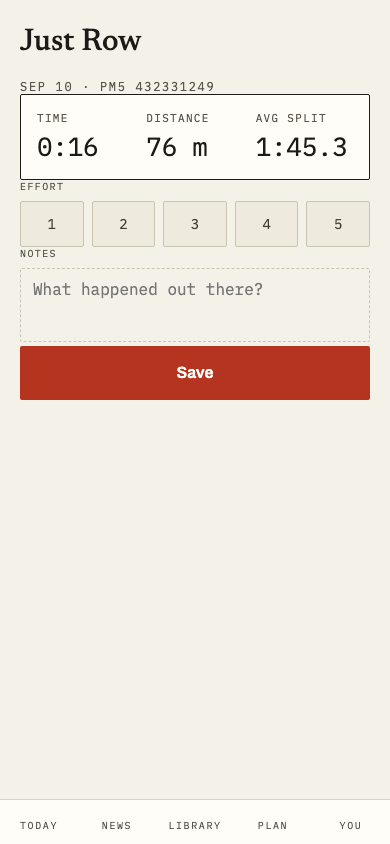
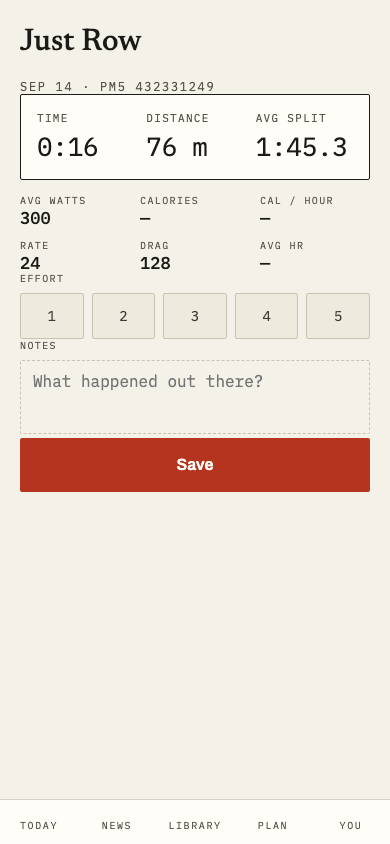
Show the free row's machine tiles in its committed capture (TD-5) (#442)
* Show the free row's machine tiles in its committed capture (TD-5)

`justrow-log` now delivers the fake's end-of-workout 0x0039 inside the
window the driver and the ended hand-off leave open, so
`docs/screenshots/justrow-log.png` renders the six machine tiles for the
first time. Two files change: the capture step and the PNG.

The window was measured in a real browser rather than guessed at again
(branch `td5-spike`, commit `6ea6fdb9`): it opens when the driver sees the
`terminated` frame, 15-86 ms after `terminate-sent`, and closes ~1800 ms
after the hand-off opens. Every earlier attempt delivered on the second End
tap, which is 9 ms EARLY — refused `out-of-window`, nothing filed.

The gate is the locators, not the picture: the tier block, three tiles
carrying figures (AVG WATTS 300, RATE 24, DRAG 128) and three reading a
dash, plus the pre-navigation URL check proving the hold was still open at
delivery. Run RED first with the assertion and no delivery ("element(s) not
found"); the biting mutation is delivering at +0 ms instead of +400.

Claude-Session: https://claude.ai/code/session_01PgSZi4b2yPJmguvrg9EyzP

* Close TD-5 in the ROADMAP, with the number that closed it

Marks the free-row capture row done against `2c9d7e09` and records the
measured window in the row itself: the delivery must land after the
`terminated` frame (15-86 ms past `terminate-sent`) and before the hand-off
linger's effective ~1800 ms, and every earlier attempt was 9 ms early.
[…]

diff --git a/app/e2e/screenshots.spec.ts b/app/e2e/screenshots.spec.ts
@@ -6539,6 +6539,12 @@ test("countdown-blocked-start-landscape", async ({ page }) => {
 // every number on screen is one the pipeline computed, not one the capture
 // seeded.
 //
+// ONE EXCEPTION, STATED RATHER THAN IMPLIED (Phase TD, TD-5): `justrow-log`
+// delivers a bare 0x0039, so three of its six machine tiles read a dash —
+// hardware sends 0x003A too and renders five of six. See that test's own
+// comment for the measured delivery window and why the frame is not a
+// picture of what the erg produces.
+//
 // THE FIXTURE'S RATE VARIES ON PURPOSE (PM final gate, B4): the first cut
 // held 4 m/s at every frame, which made the reviewer instruction
 // "recompute AVG = 500 × t ÷ d by eye" unfalsifiable — the arithmetic
@@ -6750,8 +6756,87 @@ test("justrow-log", async ({ page }) => {
   await openJustRowLive(page, "screenshots-justrow-log@e2e.test");
   await page.getByRole("button", { name: "End session" }).click();
   await page.getByRole("button", { name: "Tap again to end" }).click();
+
+  // THE END-OF-WORKOUT SUMMARY, offered for as long as the surface is still
+  // here to take it. Three previous attempts delivered it once, on the
+  // second End tap, and missed a window whose bounds were MEASURED in a
+  // real browser (branch `td5-spike`, commit `6ea6fdb9`, four orderings)
+  // by dumping the ring the app itself stashes at
+  // `ergomatic:last-session-log` — the browser-side observable Phase TD's
+  // spec §1.3 said was missing:
+  //
+  //   - it OPENS once the driver has SEEN the `terminated` status frame,
+  //     15/24/52/86 ms after `terminate-sent` across those four runs. The
+  //     fake acks the terminate and delivers the synthesized `terminated`
+  //     status SYNCHRONOUSLY (`onArmedFrameComplete`, `fake.ts`) — a free
+  //     row never programs, so `queueTerminateAutoCycle`'s tick drain is
+  //     not on this path at all — which makes that spread APP-SIDE latency,
+  //     and app-side latency is exactly what a loaded runner stretches;
+  //   - it CLOSES ~1800 ms after the ended hand-off opens — the hold is
+  //     `BURST_LINGER_MS` (2000 ms) and `summary-recorded` lands 200 ms
+  //     after the 0x0039, on the hash sub-window;
+  //   - delivering on the second End tap put the frame **9 ms early**:
+  //     refused `summary-reconciled :: out-of-window`, nothing filed, and
+  //     the tier block absent from the capture that exists to show it.
+  //
+  // SO THE DELIVERY IS A PUMP, NOT A DEADLINE. One wall-clock wait would
+  // fail in BOTH directions — too short and the frame is refused, too long
+  // and the hold has closed — and this file's other `waitForTimeout`s are
+  // one-sided settling waits that carry no such risk. The loop cannot fail
+  // that way: it keeps offering the frame across the whole window.
+  //
+  // Every offer is PRE-NAVIGATION by construction, which is the property
+  // `connected.spec.ts:919` asserts on the programmed arm: the loop's own
+  // condition is that the free-row route is still mounted. An offer made
+  // before the window opens is refused and costs one ring line; one made
+  // after the totals are filed is a write-once no-op. Exit is the
+  // consequence itself — the hand-off releases on `burst-heard` and the
+  // surface navigates. **`Wrapping up` is deliberately not the signal:**
+  // `ConnectedSurface.tsx:466-472` renders that line on every ended state,
+  // held or not, so it proves nothing about the hold (spec §1.3).
+  const stopOfferingAt = Date.now() + 1600;
+  while (page.url().endsWith("/justrow") && Date.now() < stopOfferingAt) {
+    await page.evaluate(() => {
+      // The accumulator's own reading at the End tap (0:16, 76 m — the
+      // fixture's 6 m/s leg), so every figure in the frame recomputes from
+      // the two beside it: AVG SPLIT = 500 x 16 / 76 = 1:45.3, and
+      // AVG WATTS = round(2.8 / (16/76)^3) = 300.
+      window.__pm5FakeControls__?.deliverSummary({
+        elapsedSeconds: 16,
+        meters: 76,
+      });
+    });
+    await page.waitForTimeout(150);
+  }
+
   await expect(page).toHaveURL(/\/justrow\/log$/, { timeout: 15_000 });
   await expect(page.getByText("EFFORT", { exact: true })).toBeVisible();
+
+  // THREE OF THE SIX TILES CARRY FIGURES AND THREE READ A DASH, which is
+  // the state this frame deliberately shows (spec §4.3, ruled by James
+  // 2026-09-12 on this exact cost): CALORIES and CAL / HOUR live on 0x003A,
+  // which a bare `deliverSummary` never writes, and all 90 fixture frames
+  // carry `heartRateBpm: null`. **So this capture is NOT what the hardware
+  // renders** — a real free row carries 0x003A, and the 2026-08-31 walk's
+  // own bytes render five of six through the real driver, hook and store
+  // (`justRowReplay.test.ts:350-355`). RATE 24 and DRAG 128 are the fake's
+  // own summary defaults (`fake.ts:928`, `:942`).
+  //
+  // The LOCATORS are the gate; the PNG is only the record (RF21 — a picture
+  // cannot go red). The biting mutation is the pump's reach: with
+  // `stopOfferingAt` set to `Date.now()` the single remaining offer lands
+  // before the window opens, and `toHaveCount(6)` reports `Received: 0`.
+  // All six, by position and exact text — `:4119-4124`'s own idiom for this
+  // same block, which pins the dashes as hard as the figures.
+  const tiles = page.getByTestId("summary-machine-tier").getByRole("group");
+  await expect(tiles).toHaveCount(6);
+  await expect(tiles.nth(0)).toHaveText("AVG WATTS300");
+  await expect(tiles.nth(1)).toHaveText("CALORIES—");
+  await expect(tiles.nth(2)).toHaveText("CAL / HOUR—");
+  await expect(tiles.nth(3)).toHaveText("RATE24");
+  await expect(tiles.nth(4)).toHaveText("DRAG128");
+  await expect(tiles.nth(5)).toHaveText("AVG HR—");
+
   await page.screenshot({
     path: path.join(SCREENSHOTS_DIR, "justrow-log.png"),
   });

diff --git a/ROADMAP.md b/ROADMAP.md
@@ -4001,9 +4001,11 @@ rather than found.
 **OPENED 2026-09-12.** Spec:
 [docs/superpowers/specs/2026-09-12-phase-td-design.md](docs/superpowers/specs/2026-09-12-phase-td-design.md).
 Scope ruled by James 2026-09-12: three rows, one PR. **TD-5 then came back
-out on 2026-09-13, measured** — see its row. What landed is the ungated
-reconciliation and the double link read; the other three are filed below
-with dates.
+out on 2026-09-13, measured** — and CLOSED on 2026-09-14 by a second spike
+that measured the window in a real browser (`2c9d7e09`; see its row). What
+landed is the ungated reconciliation, the double link read and the free-row
+capture; the two remaining rows, both split out on 2026-09-12, are filed
+below with their own dates.
 
 **THIS SECTION USED TO SAY TWO OF THESE SHARE ONE BLOCKER AND SHOULD BE DONE
 TOGETHER. THAT WAS FALSE, and a spike at production defaults measured it**
@@ -4028,15 +4030,19 @@ unblocking one does nothing for the other.
 condition is a quiet week rather than an incident.
 
 · dies 2026-09-26 (set 2026-09-12 by James at the open gate, matching the
-date Wave A PR 1 carried) · **the date governs THIS SLATE of three rows, not
+date Wave A PR 1 carried) · **the date governs THIS SLATE of rows, not
 the section.** A stalled Phase TD must never become the reason the front door
-slipped, and under the wave-heading rule one date on the heading covers all
-three rows rather than writing the same clause three times.
+slipped, and under the wave-heading rule one date on the heading covers the
+slate rather than writing the same clause on each row. **The slate was three
+and is now TWO** — TD-5 closed 2026-09-14 (`2c9d7e09`); TD-2 and TD-3, split
+out on 2026-09-12, carry their own later dates, so this heading date is now
+the earlier backstop of the two.
 
 **THE SECTION ITSELF SURVIVES ITS OWN DATE, and that is a ruling, not an
 oversight (James, 2026-09-12).** Line 43 of this file makes Phase TD the
 designated home for every debt row, created because "Small, queued" had
-passed 240 rows. Landing these three empties the section to ZERO rows, and
+passed 240 rows. Landing the slate empties the section to ZERO rows (TD-5
+landed 2026-09-14; the remaining two would do it), and
 `/close-phase` archives a closed phase verbatim — which would delete the
 convention along with the phase. So: **this phase STAYS OPEN as the standing
 debt home and `/close-phase` is explicitly NOT run on it.** When the slate
@@ -4175,11 +4181,46 @@ than back in the queue this was built to replace.
       an ADDITION on three others — net better, but not the pure halving the
       row implied. Spec §1.6.
 
-- [ ] **BACK OUT OF THE LANDING PR 2026-09-13 (James) — no committed
-      capture shows the free-row summary's machine tiles.** · dies
-      2026-10-13 · a row and not a fix now because three measured attempts
-      could not land the delivery inside the window, and the next honest
-      step is a browser-side ring dump rather than a fourth timing guess.
+- [x] **CAPTURED 2026-09-14 (`2c9d7e09`) — the free-row summary's machine
+      tiles are in `docs/screenshots/justrow-log.png`.** The ring dump this
+      row asked for was taken (branch `td5-spike`, commit `6ea6fdb9`: the
+      real free-row flow four times, delivering at +0/+400/+800/+1500 ms and
+      reading the ring the app itself stashes at
+      `ergomatic:last-session-log` — no dev seam, because that localStorage
+      write is unconditional at teardown). **The miss was 9 ms.** At +0 ms
+      the 0x0039 lands 9 ms BEFORE the `terminated` frame and is refused
+      `out-of-window`; the three earlier attempts were all on that side of
+      it. **The window, measured:** it OPENS 15/24/52/86 ms after
+      `terminate-sent` — the fake acks the terminate and delivers the
+      synthesized `terminated` status SYNCHRONOUSLY
+      (`onArmedFrameComplete`; a free row never programs, so
+      `queueTerminateAutoCycle`'s tick drain is not on this path), which
+      makes that spread APP-SIDE latency and therefore something a loaded
+      runner stretches — and CLOSES ~1800 ms after the ended hand-off opens,
+      `BURST_LINGER_MS` is 2000 ms and `summary-recorded` lands 200 ms after
+      the 0x0039, on the hash sub-window. **The capture PUMPS rather than
+      waiting a measured interval** (review finding, same PR): the DOM has
+      no signal for "the terminated frame landed" (`Wrapping up` renders on
+      every ended state) and inventing one is production code this row does
+      not justify, so the capture offers the frame every 150 ms for as long
+      as the free-row route is still mounted. A single wall-clock wait would
+      fail in BOTH directions on a loaded runner; the loop cannot, and every
+      offer is pre-navigation by construction.
+      Gated by locators, never by the PNG (RF21): the tier
+      block, AVG WATTS 300 / RATE 24 / DRAG 128, three dashes, and
+      each offer's own pre-navigation condition. Run RED first with the
+      assertion and no delivery; the biting mutation is shortening the
+      pump's reach to a single offer before the window opens
+      (`toHaveCount(6)` reports `Received: 0`).
+      **Three of the six tiles read a dash and the frame says so** — a bare
+      0x0039 carries no calories and the fixture's 90 frames carry no heart
+      rate, so this is NOT a picture of what hardware renders (a real free
+      row shows five of six, `justRowReplay.test.ts:350-355`). Ruled by
+      James 2026-09-12 on that exact cost. Original filing follows.
+      · dies 2026-10-13 (met) · a row and not a fix then because three
+      measured attempts could not land the delivery inside the window, and
+      the next honest step was a browser-side ring dump rather than a fourth
+      timing guess. That dump is what closed it.
       **What the attempts established, so nobody starts from scratch again:**
       (1) the fake IS reachable at delivery time — `__pm5FakeControls__`
       was asserted present in the failing run, so this is not the
